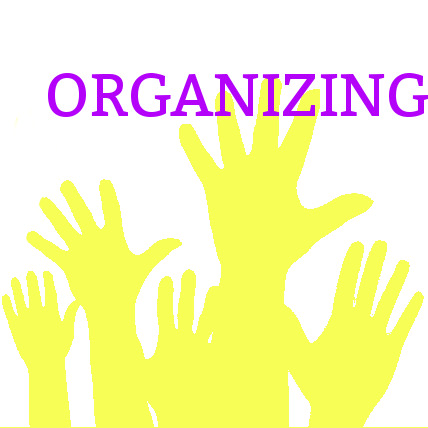
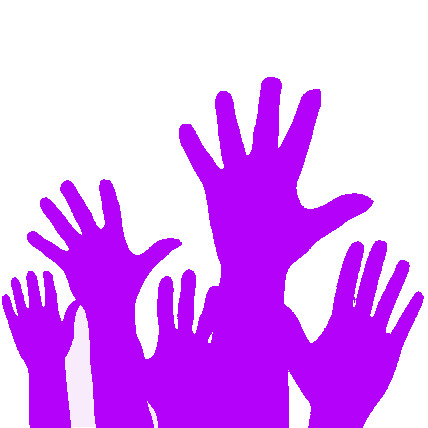
new color scheme

diff --git a/style.css b/style.css
@@ -8,8 +8,8 @@ body {
 margin:.5em;
 padding:0;
 height:100%;
-background-color:#f7ebfc;
-color:#000000;  
+background-color:#ffffff;
+color:#616161;  
 font-family:"Bitter", sans-serif;
 font-size:.9em;
 }
@@ -38,12 +38,12 @@ font-size:1em;
 
  a {
 	text-decoration:none;
-color:#000000;
+color:#616161;
 }
 
 #postHeader a:hover {
 color:#616161;
-text-decoration:none;
+text-decoration:underline;
 font-size:1em;
 }
 
@@ -53,7 +53,7 @@ font-size:1em;
 margin: 1em 2em 0 -1em; /* Mozzila attributes */
 padding:1em 0 2em 0 !important; /* IE specific attributes */
 padding:1em 0 0 0;
-background-color:#f7ebfc;
+background-color:#ffffff;
 display: block;
 }
 
@@ -75,7 +75,7 @@ padding:1em 0 1em 0;
 list-style:none;
 display:block;
 color:#ff7c00;
-background-color:#f7ebfc;
+background-color:#ffffff;
 font-family: "Bitter", serif;
 font-weight: bold;
 font-size: 2em;
@@ -86,7 +86,7 @@ font-size: 2em;
 margin:0 -1em 0 -1em;
 padding:0 0 0 0;
 height:auto;
-background-color:#faffa2;
+background-color:#9aedfd;
 border-top:none;
 }
 
@@ -94,7 +94,7 @@ border-top:none;
 	margin:0 0 0 0;
 padding:1em 10% 1em 25%;
 font-size: 1.1em;
-color: 000000;
+color: 616161;
 font-family: "Bitter", serif;
 font-style: italic;
 }
@@ -103,57 +103,71 @@ font-style: italic;
 color: #616161;
 font-family: "Bitter", serif;
 font-style: italic;
-text-decoration: none;
+text-decoration: underline;
 }
 
 #box_div {
 width: 100%;
-background-color: f7ebfc;
-margin:0 -1em 0 -1em;
-padding:0 0 0 0;
+background-color: ffffff;
+margin:0 2em 2em -1em;
+padding:0 10% 0 0;
 height:auto;
-text-align: center;
+text-align: left;
+display: inline-block;
+}
+
+#box_div h2 {
+	text-align: left;
+	padding: 0auto;
+	margin: 60px 5px 0px 5px;
+	display: inline;
+	float: left;
+
 }
 
 #box_1 {
-margin:2em 2.5% 2em 10%;
+margin:2em 5px 2em 5%;
 padding:8px;
-display: inline-block;
-width:150px;
-height: 150px;
-background-color:#f7ebfc;
-display: inline-block;
+display: inline;
+width:100px;
+height: 100px;
+background-color:#ffffff;
+display: inline;
+float:left;
 }
 
 #box_2 {
-margin:2em 2.5% 2em 2.5%;
-padding:8px;
+margin:2em 5px 2em 5px ;
+padding:2px;
 display: inline-block;
-width:150px;
-height: 150px;
-background-color:#f7ebfc;
-display: inline-block;
+width:100px;
+height: 100px;
+background-color:#ffffff;
+display: inline;
+float: left;
 }
 
 #box_3 {
-margin:2em 2.5% 2em 2.5%;
-padding:8px;
-display: inline-block;
-width:150px;
-height: 150px;
-background-color:#f7ebfc;
-display: inline-block;
+margin:2em 5px 2em 5px;
+padding:2px;
+display: inline;
+width:100px;
+height: 100px;
+background-color:#ffffff;
+display: inline;
+float: left;
 }
 
 #box_4 {
-margin:2em 10% 2em 2.5%;
-padding:8px;
-display: inline-block;
-width:150px;
-height: 150px;
+margin:2em 0% 2em 5px;
+padding:2px;
+display: inline;
+width:100px;
+height: 100px;
 
-background-color:#f7ebfc;
+background-color:#ffffff;
 display: inline-block;
+float: left;
 }
 
 .topic {
@@ -168,11 +182,12 @@ display: inline-block;
 	margin-left: 25px;
 	margin-bottom: 10px;
 	padding-left: 10%;
+	display: inline;
 }
 
 .topic p {
 	font-family: 'Bitter', serif;
-	color: 000000;
+	color: 616161;
 	padding: .5em 10% .5em 10%;
 }
 
@@ -186,12 +201,12 @@ height:4em;
 line-height:2em;
 text-align:center;
 font-size:1em;
-background-color:#f7ebfc;
+background-color:#ffffff;
 color: #b301fa;
 }
 
 #footer a {
-	color: #000000;
+	color: #616161;
 	text-decoration: none;
 	font-size: 1em;
 }

diff --git a/index.html b/index.html
@@ -25,19 +25,24 @@
   
   <div id="box_div">
   <div id="box_1">
-    <a href="#digital"> <img src="digital.jpg" alt="Digital" style="width:150px;height:150px"> </a>
+    <a href="#digital"> <img src="digital.jpg" alt="Digital" style="width:100px;height:100px"> </a>
   </div>
+  <h2>Digital<br>Communications</h2>
   <!--//end #box_1//-->
   <div id="box_2">
-       <img src="graph.jpg" alt="Data" style="width:150px;height:150px">
+       <img src="graph.jpg" alt="Data" style="width:100px;height:100px">
   </div>
+  <h2>Data<br>Analysis</h2>
   <!--//end #box_2//-->
   <div id="box_3">
-    <img src="volunteer_single_blue.png" alt="Organizing" style="width:150px;height:150px">
+    <img src="volunteer_single.jpg" alt="Organizing" style="width:100px;height:100px">
   </div>
+     <h2>Community<br>Organizing</h2>
   <!--//end #box_3//-->
   <div id="box_4">
-    <img src="Simple_Globe.jpg" alt="Global" style="width:150px;height:150px">
+    <img src="Simple_Globe.jpg" alt="Global" style="width:100px;height:100px">
+  </div>
+  <h2>International<br>Experience</h2>
   </div>
   <!--//end #box_4//-->
 </div>
